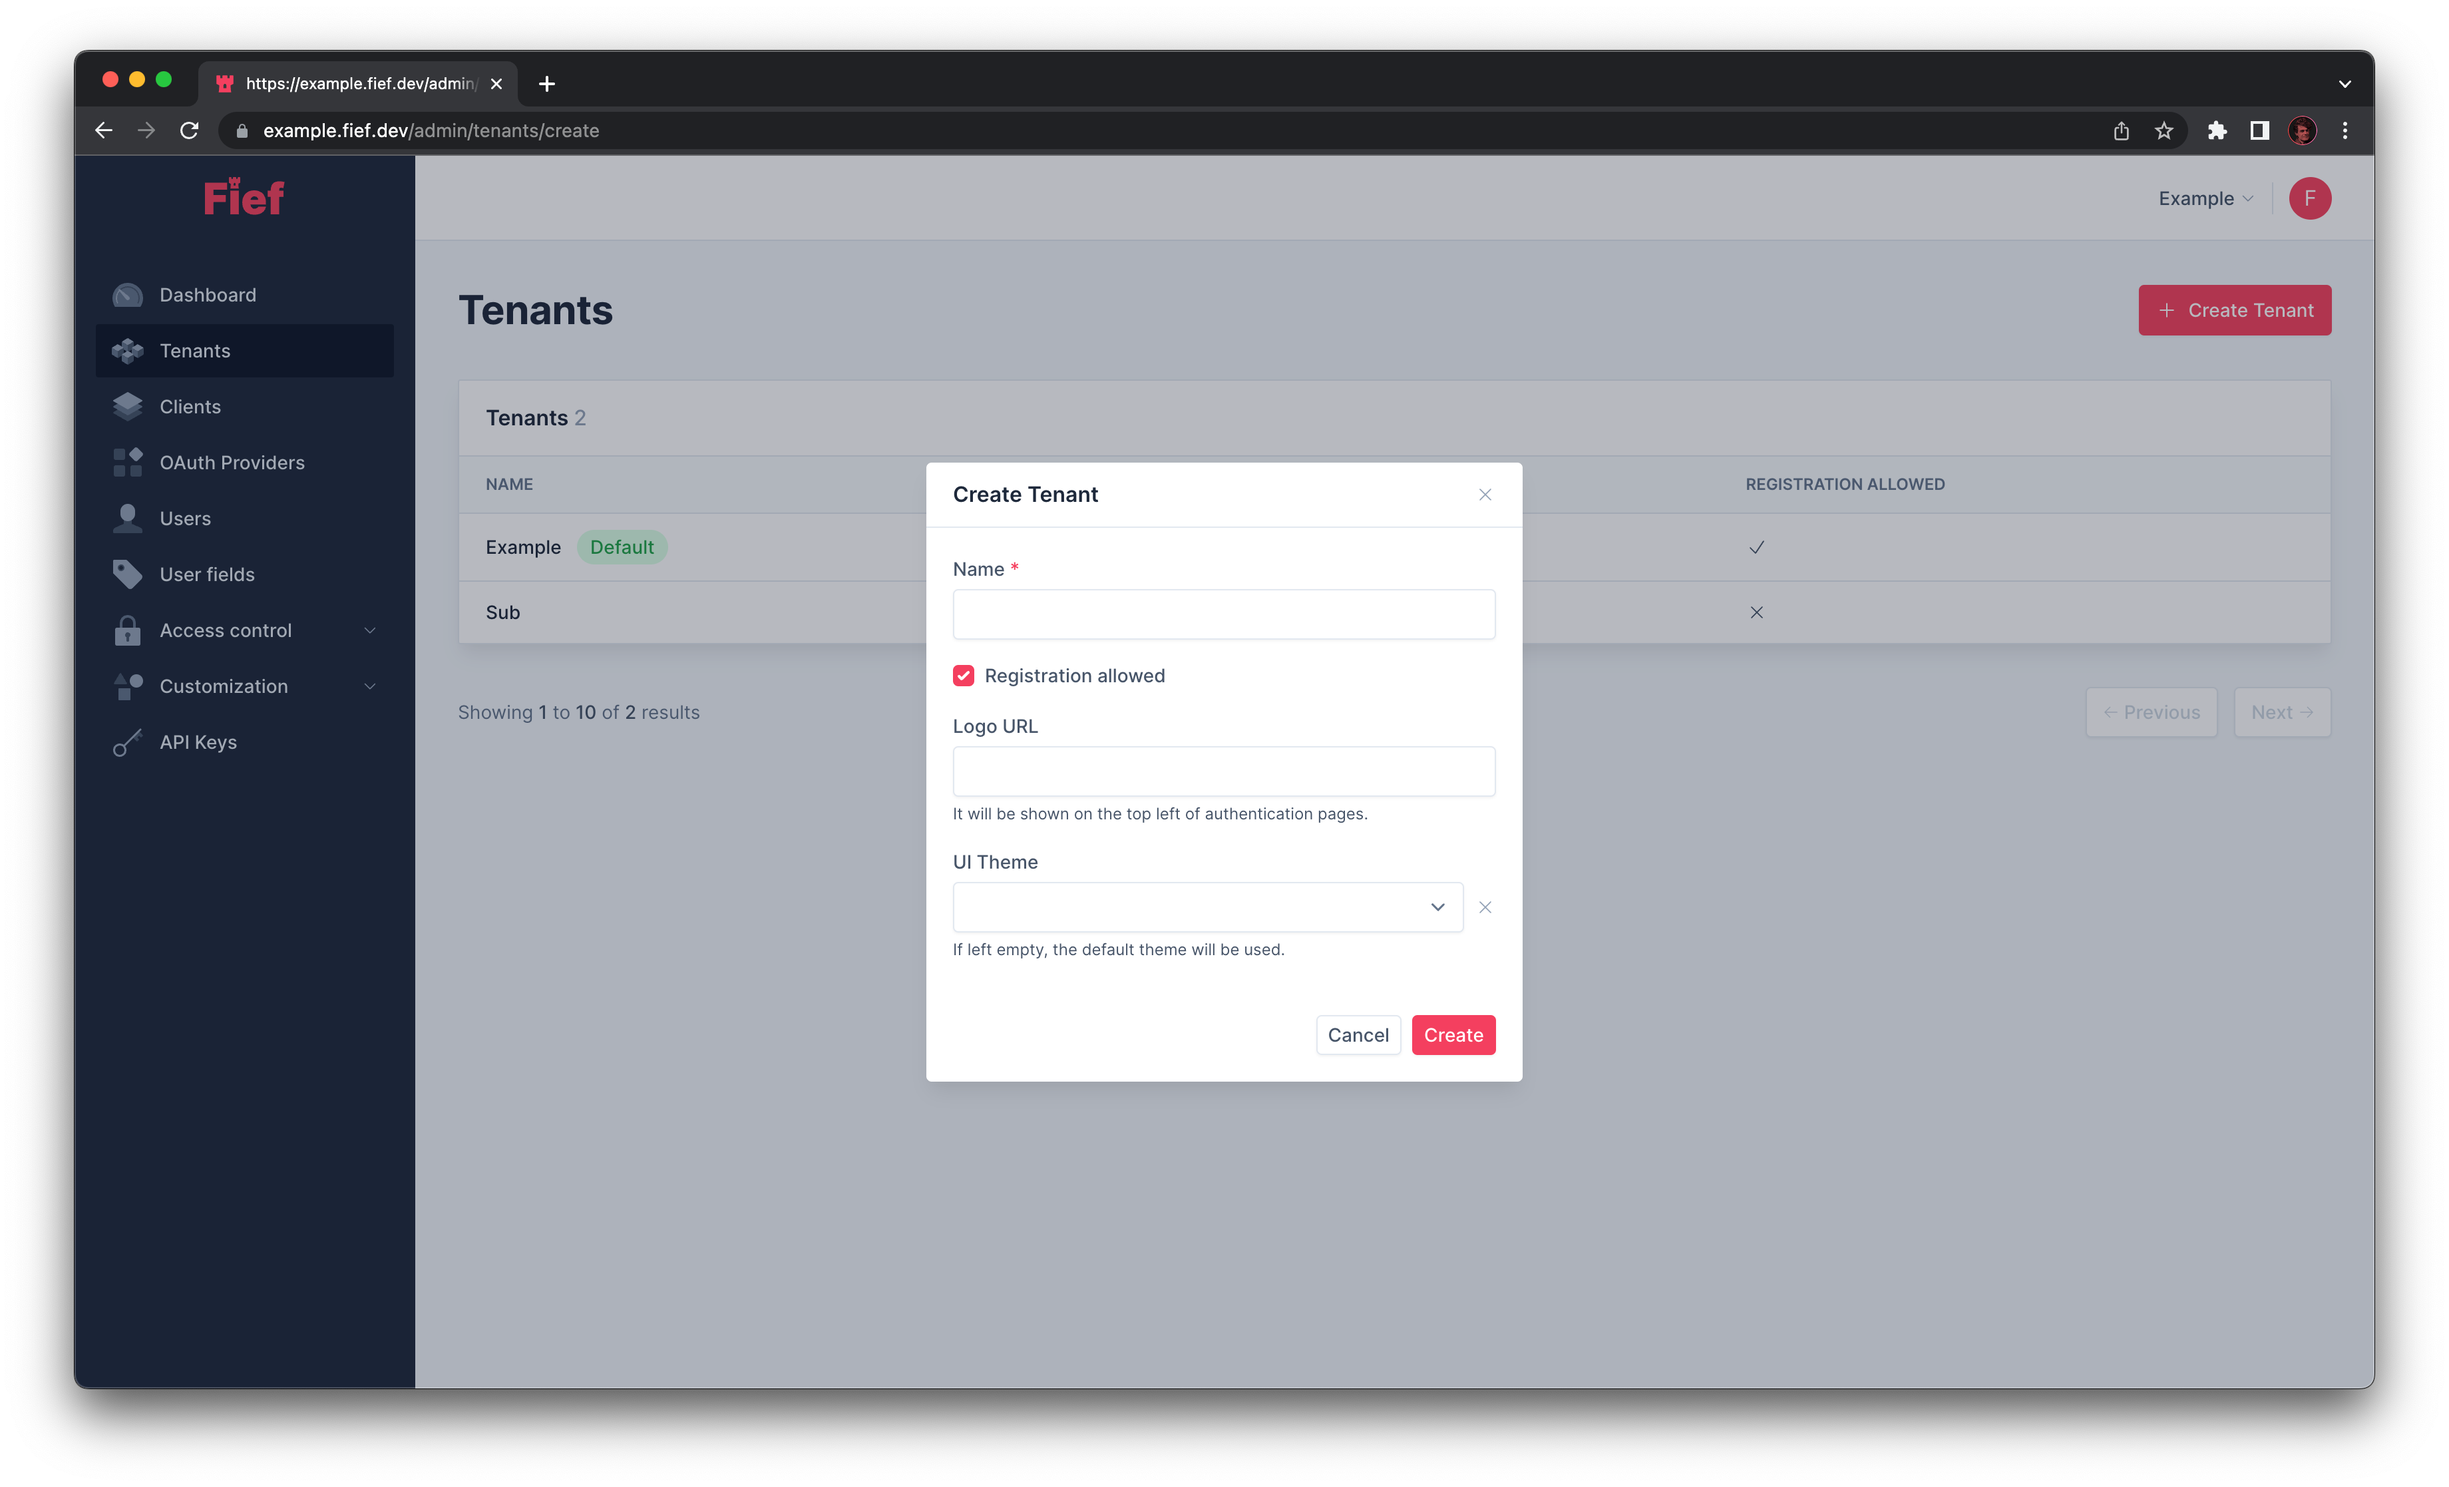
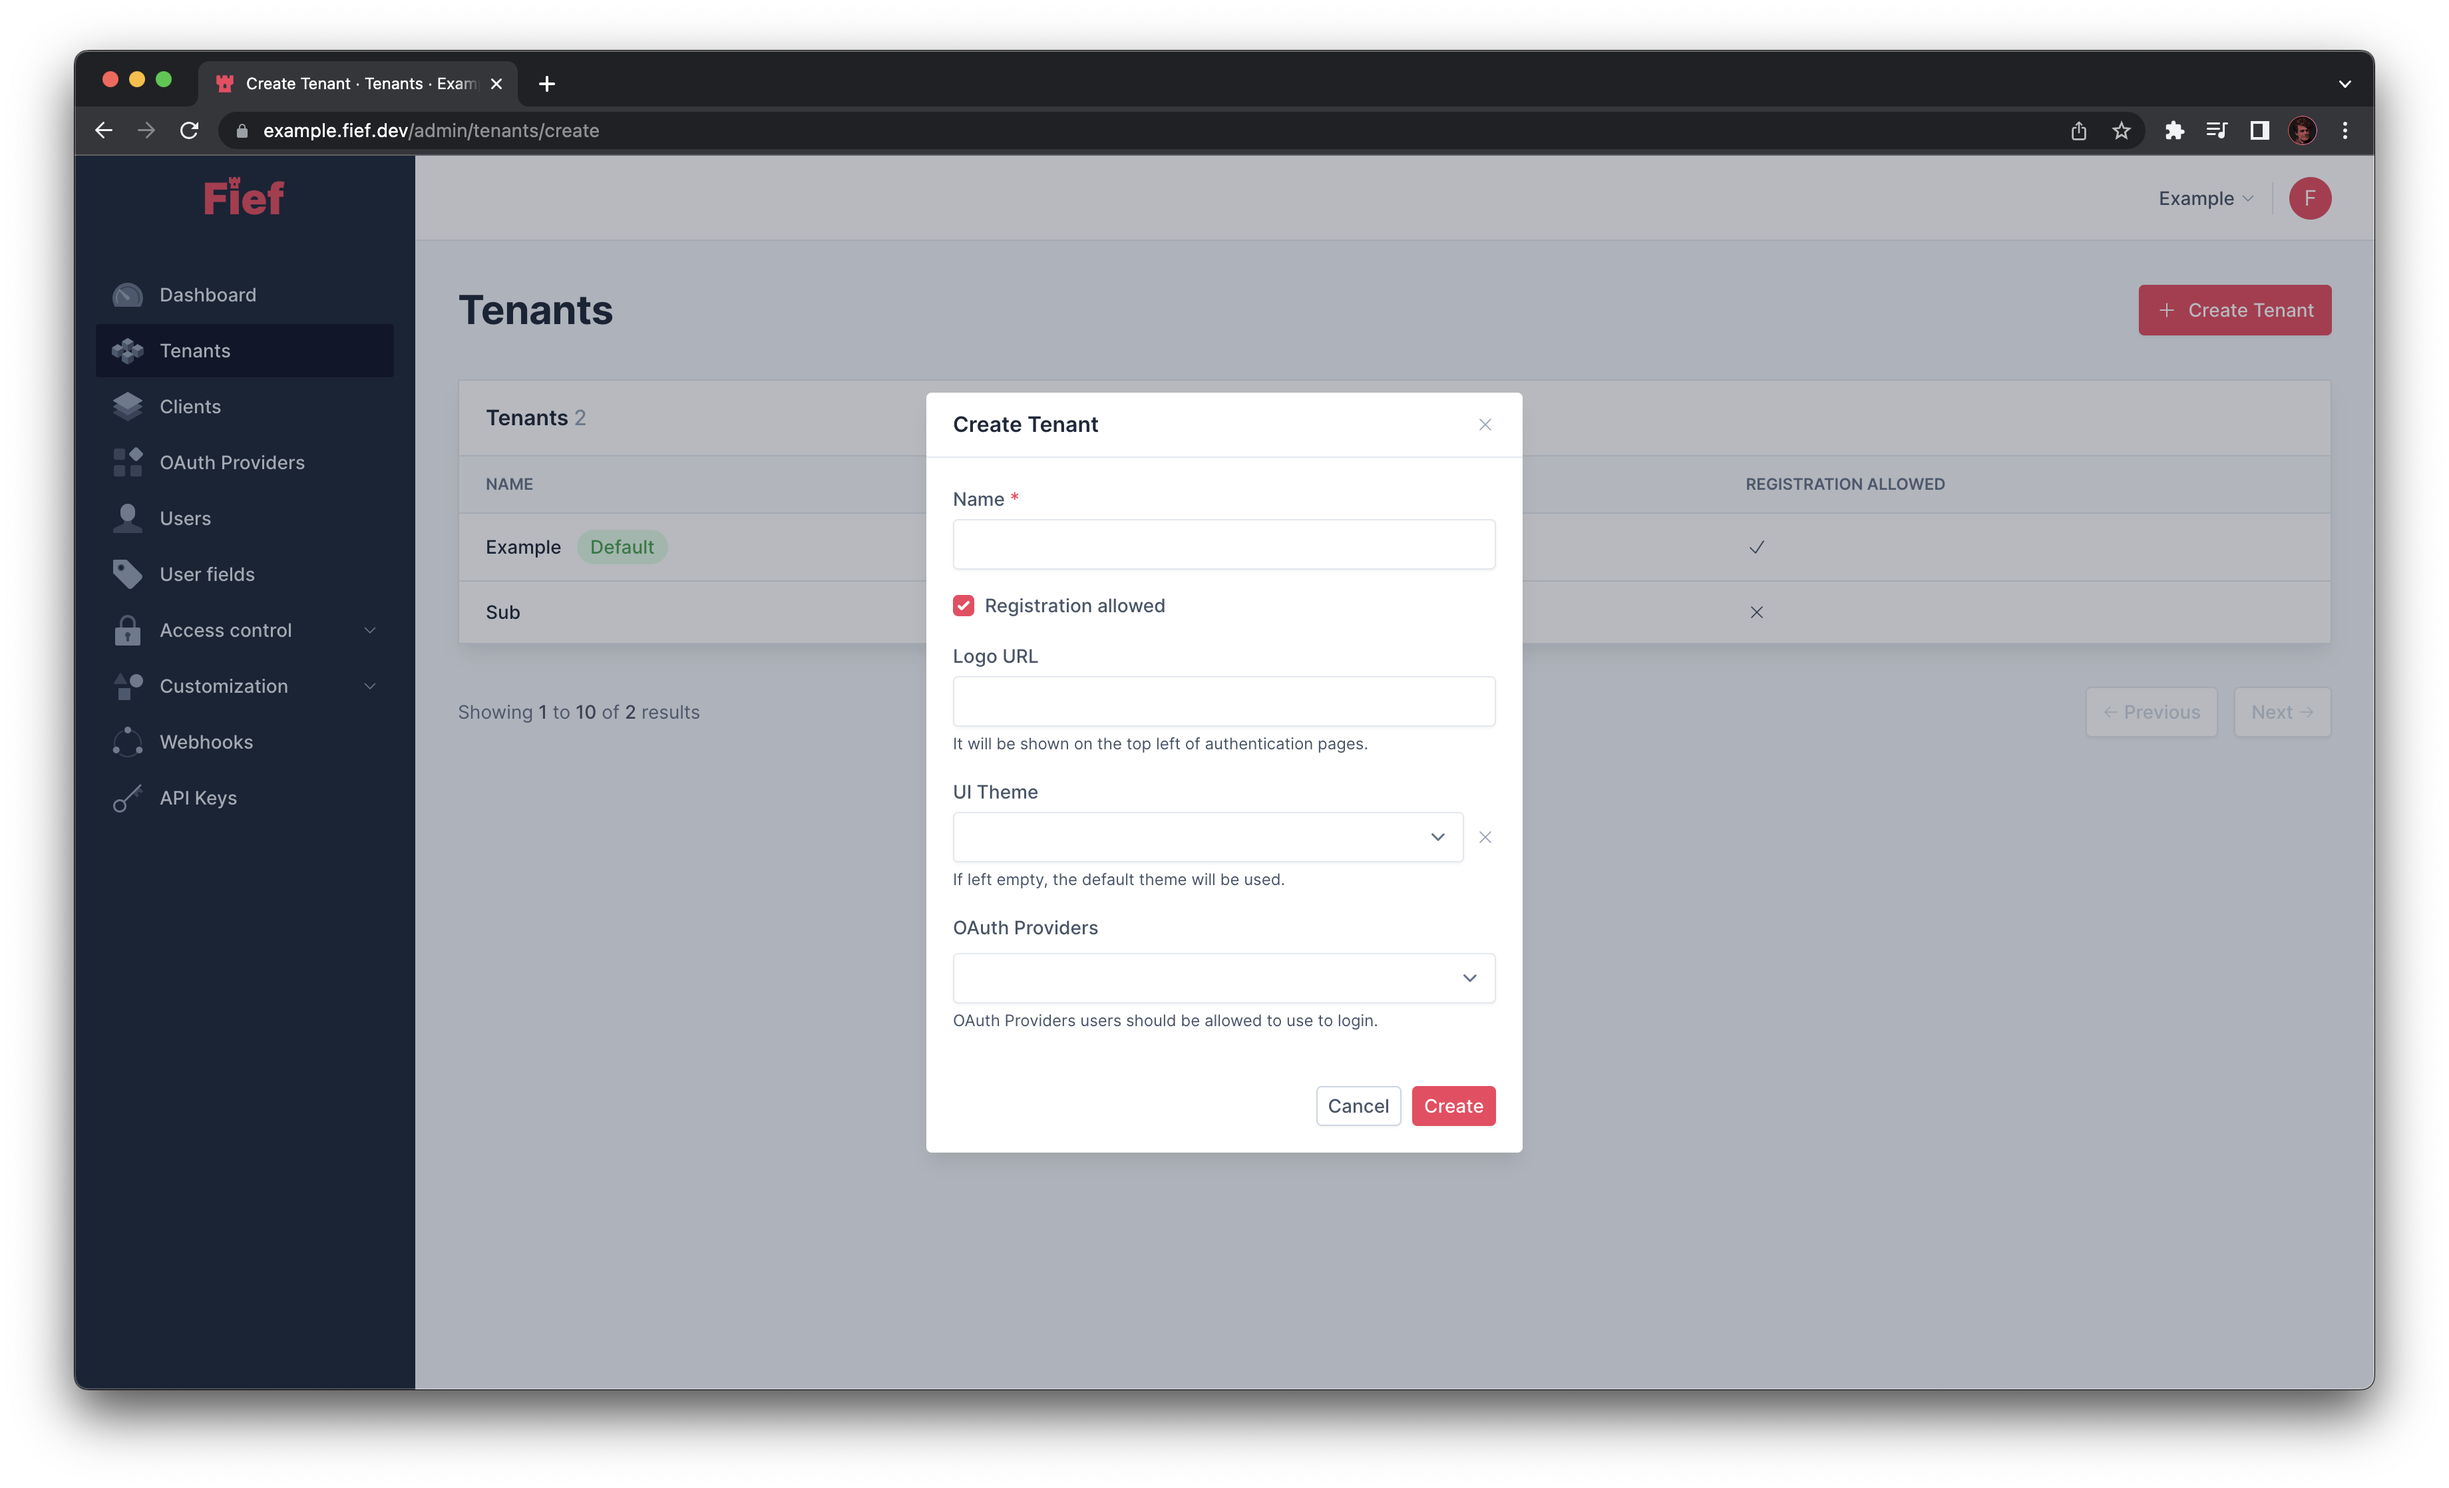
Update docs about tenant, client and user deletion from dashboard

diff --git a/examples/javascript/react/src/App.tsx b/examples/javascript/react/src/App.tsx
@@ -10,8 +10,8 @@ import RequireAuth from './RequireAuth';
 function App() {
   return (
     <FiefAuthProvider // (1)!
-      baseURL="https://example.fief.dev"
-      clientId="YOUR_CLIENT_ID"
+      baseURL="http://localhost:8000"
+      clientId="NFL8Ycdag-gbvO-5pJezwCmFEouCDRhCG4paUNOaDoI"
     >
       <div className="App">
         <h1>Fief React example</h1>

diff --git a/docs/configure/tenants.md b/docs/configure/tenants.md
@@ -31,7 +31,7 @@ Optionally, you can also set:
 
 * A logo URL that will be shown on the top-left of authentication pages.
 * A [UI theme](./customization/themes.md) to use when users authenticate with this tenant. If left empty, the theme set as default is used.
-
+* The list of [OAuth Providers](./oauth-providers.md) allowed to be used on this tenant.
 
 ![Create tenant from admin dashboard](/assets/images/admin-tenants-create.png)
 
@@ -50,3 +50,12 @@ If you click on the **Edit Tenant** button, you'll be able to update its propert
 You can choose to **disable user registration** on a tenant. To do this, you have to uncheck the **Registration allowed** checkbox in the tenant details.
 
 When registration is disabled, users can't access the registration page and create a new account on this tenant.
+
+## Delete a tenant
+
+If one your tenant is not useful anymore, you can delete it by clicking on it on the list and click on the **Delete** button on the right.
+
+![Delete tenant from admin dashboard](/assets/images/admin-tenants-delete.png)
+
+!!! danger "Users and clients will be removed as well"
+    When you delete a tenant, all its associated users and clients will be deleted as well. The data won't be recoverable. Be sure of what you're doing!

diff --git a/docs/configure/clients.md b/docs/configure/clients.md
@@ -29,6 +29,15 @@ You can edit an existing client by opening its details and click on the **Edit C
 
 ![Edit client from admin dashboard](/assets/images/admin-clients-edit.png)
 
+## Delete a client
+
+If one your client is not useful anymore, you can delete it by clicking on it on the list and click on the **Delete** button on the right.
+
+![Delete client from admin dashboard](/assets/images/admin-clients-delete.png)
+
+!!! danger "Applications using this client won't be able to authenticate users anymore"
+    Since your applications need a Client ID and Secret to authenticate users, be sure you don't need this client anymore before deleting it.
+
 ## First-party clients
 
 You probably noticed that your first client has a **first-party** badge. It means that this client is intended to be used by your own, official application.

diff --git a/docs/configure/users.md b/docs/configure/users.md
@@ -21,7 +21,17 @@ You'll also be able to fill the values for your [custom user fields](./user-fiel
 
 If you click on one of the user in the list, you'll see its details on the right and be able to update them.
 
-![Edit users from admin dashboard](/assets/images/admin-users-edit.png)
+![View user details from admin dashboard](/assets/images/admin-users-view.png)
+
+If you click on the **Edit User** button, you'll be able to update its properties.
+
+![Edit user from admin dashboard](/assets/images/admin-users-edit.png)
+
+## Delete a user
+
+You can delete a user by clicking on it on the list and click on the **Delete** button on the right.
+
+![Delete user from admin dashboard](/assets/images/admin-users-delete.png)
 
 ## Assign roles and permissions to a user
 

diff --git a/docs/configure/oauth-providers.md b/docs/configure/oauth-providers.md
@@ -16,6 +16,9 @@ The most important part is the **Client ID** and **Client Secret**: it allows to
 
 ![Create OAuth Provider from admin dashboard](/assets/images/admin-oauth-providers-create.png)
 
+!!! tip "Don't forget to enable it on your tenant"
+    OAuth Providers are enabled per tenant, so you can finely customize which authentication methods can be used on each one. To do so, [edit your tenant](./tenants.md#edit-an-existing-tenant) and enable the OAuth Provider.
+
 ## Edit an existing OAuth Provider
 
 If you click on one of the OAuth Provider in the list, you'll see its details on the right and be able to change its properties.
